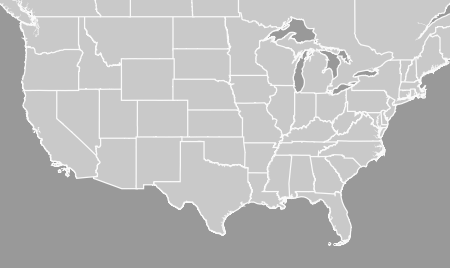
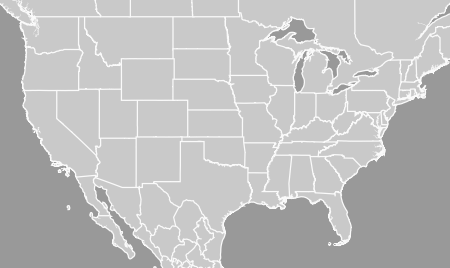
Add all regions

Changed region(s): [[0.1556, 0.6567, 0.4978, 1.0]]

diff --git a/radar2gif.py b/radar2gif.py
@@ -18,7 +18,7 @@ if len(sys.argv) > 1:
     region = sys.argv[1]
 else:
     bot = False
-    region = 'pacnorthwest'
+    region = 'Conus'
 
 
 SAVE_TO_DIR = 'gif'
@@ -28,7 +28,7 @@ timezone = {
     'northeast': 'US/Eastern',
     'pacnorthwest': 'US/Pacific',
     'centgrtlakes': 'US/Central',
-    'northernrockies': 'US/Mountain',
+    'northrockies': 'US/Mountain',
     'pacsouthwest': 'US/Pacific',
     'southeast': 'US/Eastern',
     'southmissvly': 'US/Central',
@@ -38,11 +38,26 @@ timezone = {
     'Conus': 'US/Eastern'
 }
 
+region_name = {
+    'northeast': 'Northeast',
+    'pacnorthwest': 'Northwest',
+    'centgrtlakes': 'Central Great Lakes',
+    'northrockies': 'Northern Rockies',
+    'pacsouthwest': 'Pacific SW',
+    'southeast': 'Southeast',
+    'southmissvly': 'Southern Mississippi Valley',
+    'southplains': 'Southern Plains',
+    'southrockies': 'Southern Rockies',
+    'uppermissvly': 'Upper Mississippi Valley',
+    'Conus': 'Continental United States'
+}
+
+
 tz = {
     'northeast': 'ET',
     'pacnorthwest': 'PT',
     'centgrtlakes': 'CT',
-    'northernrockies': 'MT',
+    'northrockies': 'MT',
     'pacsouthwest': 'PT',
     'southeast': 'ET',
     'southmissvly': 'CT',
@@ -55,15 +70,15 @@ tz = {
 hashtags = {
     'northeast': '#vtwx #nywx #mewx #ctwx #mawx #pawx #nhwx #njwx #skitheeast',
     'pacnorthwest': '#wawx #orwx #cawx #nvwx #idwx',
-    'centgrtlakes': '#wxGIF',
-    'northernrockies': '#wxGIF',
-    'pacsouthwest': '#wxGIF',
-    'southeast': '#wxGIF',
-    'southmissvly': '#wxGIF',
-    'southplains': '#wxGIF',
-    'southrockies': '#wxGIF',
-    'uppermissvly': '#wxGIF',
-    'Conus': '#wxGIF'
+    'centgrtlakes': '#wiwx #miwx #ilwx #inwx #ohwx #kywx #tnwx',
+    'northrockies': '#mtwx #wywx #utwx #cowx',
+    'pacsouthwest': '#cawx #nvwx',
+    'southeast': '#ncwx #scwx #gawx #flwx',
+    'southmissvly': '#lawx #arwx #miwx #alwx',
+    'southplains': '#txwx #okwx',
+    'southrockies': '#azwx #nmwx',
+    'uppermissvly': '#ndwx #sdwx #mnwx #newx #iawx #kswx #mowx',
+    'Conus': '#uswx #wxGIF'
 }
 
 
@@ -169,7 +184,7 @@ def make_gif(region, dimensions):
         image in enumerate(thumbnails)]
     print "Done"
 
-    if region == 'northeast':
+    if region == 'northeast' or region == 'southrockies':
         print "\nCropping image"
         frames = [crop_image(image) for image in frames]
         print "Done"
@@ -217,14 +232,14 @@ def tweet_gif(region, size=(450, 585), remove_frame=0):
             twitter_keys[region]['OAUTH_TOKEN'],
             twitter_keys[region]['OAUTH_TOKEN_SECRET'])
         tweet = "Radar over the %s. Most recent image from %s %s %s" % (
-            region.title(), time, tz[region], hashtags[region])
+            region_name[region], time, tz[region], hashtags[region])
         photo = open(gif, 'rb')
         twitter.update_status_with_media(status=tweet, media=photo)
         print tweet
         print "Tweet sent at: " + datetime.now().strftime("%H:%M")
 
 
-def get_map_bounds(region, dimensions):
+def get_map_bounds(region, dimensions=(840, 800)):
     base_url = 'http://radar.weather.gov/ridge/Conus/RadarImg/'
     radar_urls = get_all_radar_urls()
     for href in radar_urls:
@@ -250,3 +265,4 @@ def get_map_bounds(region, dimensions):
         bottom_right_coords[0], top_left_coords[1])
 
 tweet_gif(region)
+#get_map_bounds(region)

diff --git a/transform.py b/transform.py
@@ -109,7 +109,10 @@ def get_timestamp(filename, zone):
     time = filename.split('/')[-1].split('_')[2]
     utc_offset = arrow.now(zone).utcoffset()
     delta_t = utc_offset.days * 24 + utc_offset.seconds / 3600
-    hour = str(int(time[:2]) + delta_t)
+    hour = int(time[:2]) + delta_t
+    if hour < 0:
+        hour += 24
+    hour = str(hour)
     minutes = time[2:]
     timestamp = hour + ':' + minutes
     return timestamp
@@ -133,12 +136,17 @@ def basemap_text(image, region):
     """Adds branding to image"""
     draw = ImageDraw.Draw(image)
     w, h = image.size
-    x_pos = w - 220
-    y_pos = h - 100
     font = ImageFont.truetype('fonts/raleway.otf', 55)
     small_font = ImageFont.truetype('fonts/raleway.otf', 18)
 
-    if region == 'northeast':
+    if region in ['southeast', 'southplains', 'pacsouthwest']:
+        x_pos = 20  # move branding to left side
+    else:
+        x_pos = w - 220
+
+    y_pos = h - 100
+
+    if region in ['northeast', 'southeast', 'southmissvly', 'pacsouthwest']:
         color = (255, 255, 255)
     else:
         color = (100, 100, 100)
@@ -148,10 +156,15 @@ def basemap_text(image, region):
     return image
 
 
-def crop_image(image):
+def crop_image(image, region):
     cropped = Image.open(image)
     w, h = cropped.size
-    cropped.crop((0, 40, w, h)).save(image, "PNG", optimize=True)
+    x, y = 0
+    if region == 'northeast':
+        x = 40
+    elif region == 'southrockies':
+        h = h - 100
+    cropped.crop((x, y, w, h)).save(image, "PNG", optimize=True)
     return image
 
 
